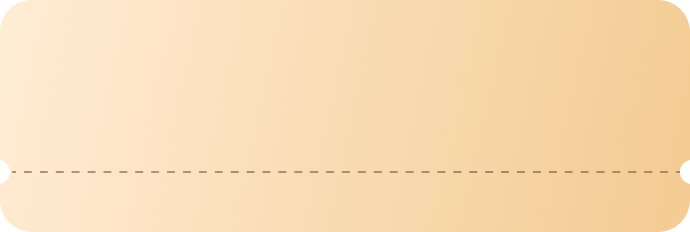
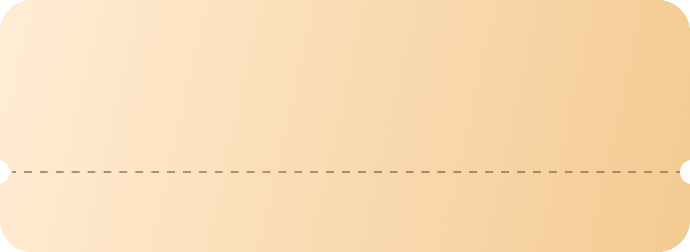
feat:add

Changed region(s): [[0.0, 0.6336, 1.0, 0.7845]]

diff --git a/src/components/video-retention-promo/VideoRetentionPromo.tsx b/src/components/video-retention-promo/VideoRetentionPromo.tsx
@@ -52,7 +52,7 @@ export const retentionPromoAssets = {
 } as const;
 
 /** bg_coupon@2x.png 票券背景固定高度（px），不随文案撑开 */
-export const RETENTION_COUPON_BG_HEIGHT_PX = 116;
+export const RETENTION_COUPON_BG_HEIGHT_PX = 126;
 
 function formatCountdownParts(totalSec: number): { h: string; m: string; s: string } {
     const safe = Math.max(0, totalSec);
@@ -289,10 +289,10 @@ function PromoHeaderArt({
 
 function PromoCouponCardStep12({
     discount,
-    pricingText,
+    pricingContent,
 }: {
     discount: number;
-    pricingText: string;
+    pricingContent: ReactNode;
 }) {
     return (
         <div className="rs-retention-promo__coupon">
@@ -314,7 +314,7 @@ function PromoCouponCardStep12({
                     <span className="rs-retention-promo__couponDiscount">{discount}%</span>
                 </div>
                 <div className="rs-retention-promo__couponDivider" aria-hidden />
-                <p className="rs-retention-promo__couponPricing">{pricingText}</p>
+                <div className="rs-retention-promo__couponPricing">{pricingContent}</div>
             </div>
         </div>
     );
@@ -435,20 +435,52 @@ export function VideoRetentionPromoLayer({
     const subtitleId =
         step === 2 ? 'retention_promo_subtitle_step2' : 'retention_promo_subtitle_step1';
 
-    const pricingText = isWeekly
-        ? intl.formatMessage(
-              { id: 'retention_promo_terms_weekly' },
-              { price: priceLabel, renewal: renewalLabel },
-          )
-        : intl.formatMessage(
-              { id: 'retention_promo_terms_quarterly' },
-              { price: priceLabel, renewal: renewalLabel },
-          );
+    const pricingContent =
+        step === 1 ? (
+            <>
+                <p className="rs-retention-promo__couponPricingLine">
+                    {intl.formatMessage(
+                        { id: 'retention_promo_terms_step1_line1' },
+                        { price: priceLabel },
+                    )}
+                </p>
+                <p className="rs-retention-promo__couponPricingLine">
+                    {intl.formatMessage(
+                        { id: 'retention_promo_terms_step1_line2' },
+                        { renewal: renewalLabel },
+                    )}
+                </p>
+            </>
+        ) : step === 2 ? (
+            <p className="rs-retention-promo__couponPricingLine">
+                {intl.formatMessage(
+                    { id: 'retention_promo_terms_step2' },
+                    { renewal: renewalLabel },
+                )}
+            </p>
+        ) : isWeekly ? (
+            <p className="rs-retention-promo__couponPricingLine">
+                {intl.formatMessage(
+                    { id: 'retention_promo_terms_weekly' },
+                    { price: priceLabel, renewal: renewalLabel },
+                )}
+            </p>
+        ) : (
+            <p className="rs-retention-promo__couponPricingLine">
+                {intl.formatMessage(
+                    { id: 'retention_promo_terms_quarterly' },
+                    { price: priceLabel, renewal: renewalLabel },
+                )}
+            </p>
+        );
 
-    const step3LegalText = intl.formatMessage(
-        { id: 'retention_promo_terms_quarterly' },
-        { price: priceLabel, renewal: renewalLabel },
-    );
+    const step2Disclaimer =
+        step === 2
+            ? intl.formatMessage(
+                  { id: 'retention_promo_terms_step2' },
+                  { renewal: renewalLabel },
+              )
+            : null;
 
     const ctaText = intl.formatMessage(
         { id: 'retention_promo_cta_sale' },
@@ -499,7 +531,7 @@ export function VideoRetentionPromoLayer({
                 {isStep3 ? (
                     <PromoOfferCardStep3 offer={offer} discount={discount} />
                 ) : (
-                    <PromoCouponCardStep12 discount={discount} pricingText={pricingText} />
+                    <PromoCouponCardStep12 discount={discount} pricingContent={pricingContent} />
                 )}
 
                 {isStep3 ? (
@@ -512,9 +544,14 @@ export function VideoRetentionPromoLayer({
                         </button>
                     </div>
                 ) : (
-                    <button type="button" className="rs-retention-promo__cta" onClick={onCta}>
-                        {ctaText}
-                    </button>
+                    <>
+                        <button type="button" className="rs-retention-promo__cta" onClick={onCta}>
+                            {ctaText}
+                        </button>
+                        {step2Disclaimer ? (
+                            <p className="rs-retention-promo__ctaDisclaimer">{step2Disclaimer}</p>
+                        ) : null}
+                    </>
                 )}
 
                 <PromoShortsRow covers={covers} />

diff --git a/src/pages/user/RadixRc.tsx b/src/pages/user/RadixRc.tsx
@@ -1057,39 +1057,7 @@ export default function RadixRc({
                                     <FormattedMessage id="payment_processing_title" />
                                 </div>
                             </div>
-                            <div className="rs-shopping__payModalCopy">
-                                {currentCheckoutProduct?.type === 2 &&
-                                totalCoinsForCoinProduct(currentCheckoutProduct) > 0 ? (
-                                    <p className="mb-2 flex items-center justify-center gap-1.5 text-sm font-semibold text-white">
-                                        <img src={coinIcon} alt="" width={16} height={16} />
-                                        <span>
-                                            {intl.formatNumber(
-                                                totalCoinsForCoinProduct(currentCheckoutProduct),
-                                            )}
-                                        </span>
-                                        <span className="text-white/70" aria-hidden>
-                                            ·
-                                        </span>
-                                        <span>${currentCheckoutProduct.price}</span>
-                                    </p>
-                                ) : null}
-                                <p>
-                                    <FormattedMessage id="payment_processing_line_1" />
-                                </p>
-                                <p>
-                                    <FormattedMessage id="payment_processing_line_2" />
-                                </p>
-                                <p>
-                                    <FormattedMessage id="payment_processing_line_3" />
-                                </p>
-                                <p>
-                                    <span>
-                                        <FormattedMessage id="payment_processing_line_4" />
-                                    </span>
-                                    {/* <span className="rs-shopping__payModalCopyAmount">{retryAmount}</span> */}
-                                </p>
-                            </div>
-                            {/* ????????key ??????????destroy ??on('success')/on('error')???? paySessionSeed prop ???? effect?redirectToCheckout ????Webhook/??????*/}
+                            
                             <div className="rs-shopping__payStack">
                                 <RadixRcShoppingPaySection
                                     key={String(walletProductId ?? 'wallet')}

diff --git a/src/styles/video-retention-promo.scss b/src/styles/video-retention-promo.scss
@@ -177,7 +177,11 @@
     position: absolute;
     inset: 0;
     z-index: 1;
+    display: grid;
+    /* 与 bg_coupon@2x（252px 高，虚线约在 182px）对齐：182/252 ≈ 72% / 28% */
+    grid-template-rows: minmax(0, 91fr) minmax(0, 35fr);
     background: transparent;
+    transform: translateY(-3px);
 }
 
 .rs-retention-promo__offerCard {
@@ -197,8 +201,10 @@
     display: flex;
     flex-direction: column;
     align-items: center;
+    justify-content: center;
     gap: 8px;
-    padding: 14px 20px 14px;
+    min-height: 0;
+    padding: 0 20px;
 }
 
 .rs-retention-promo__couponLabel {
@@ -225,11 +231,36 @@
 }
 
 .rs-retention-promo__couponPricing {
+    display: flex;
+    flex-direction: column;
+    justify-content: center;
+    align-items: center;
+    min-height: 0;
     margin: 0;
-    padding: 7px 16px 7px;
+    padding: 0 16px;
     font-weight: 400;
     font-size: 10px;
     color: rgba(99, 62, 37, 0.75);
+    text-align: center;
+}
+
+.rs-retention-promo__couponPricingLine {
+    margin: 0;
+    line-height: 1.4;
+
+    & + & {
+        margin-top: 2px;
+    }
+}
+
+.rs-retention-promo__ctaDisclaimer {
+    margin: -12px 0 10px;
+    padding: 0 8px;
+    font-weight: 400;
+    font-size: 10px;
+    line-height: 1.4;
+    color: rgba(255, 255, 255, 0.55);
+    text-align: center;
 }
 
 /* —— 弹窗 3：会员卡（纯 CSS 渐变，不用票券图） —— */
